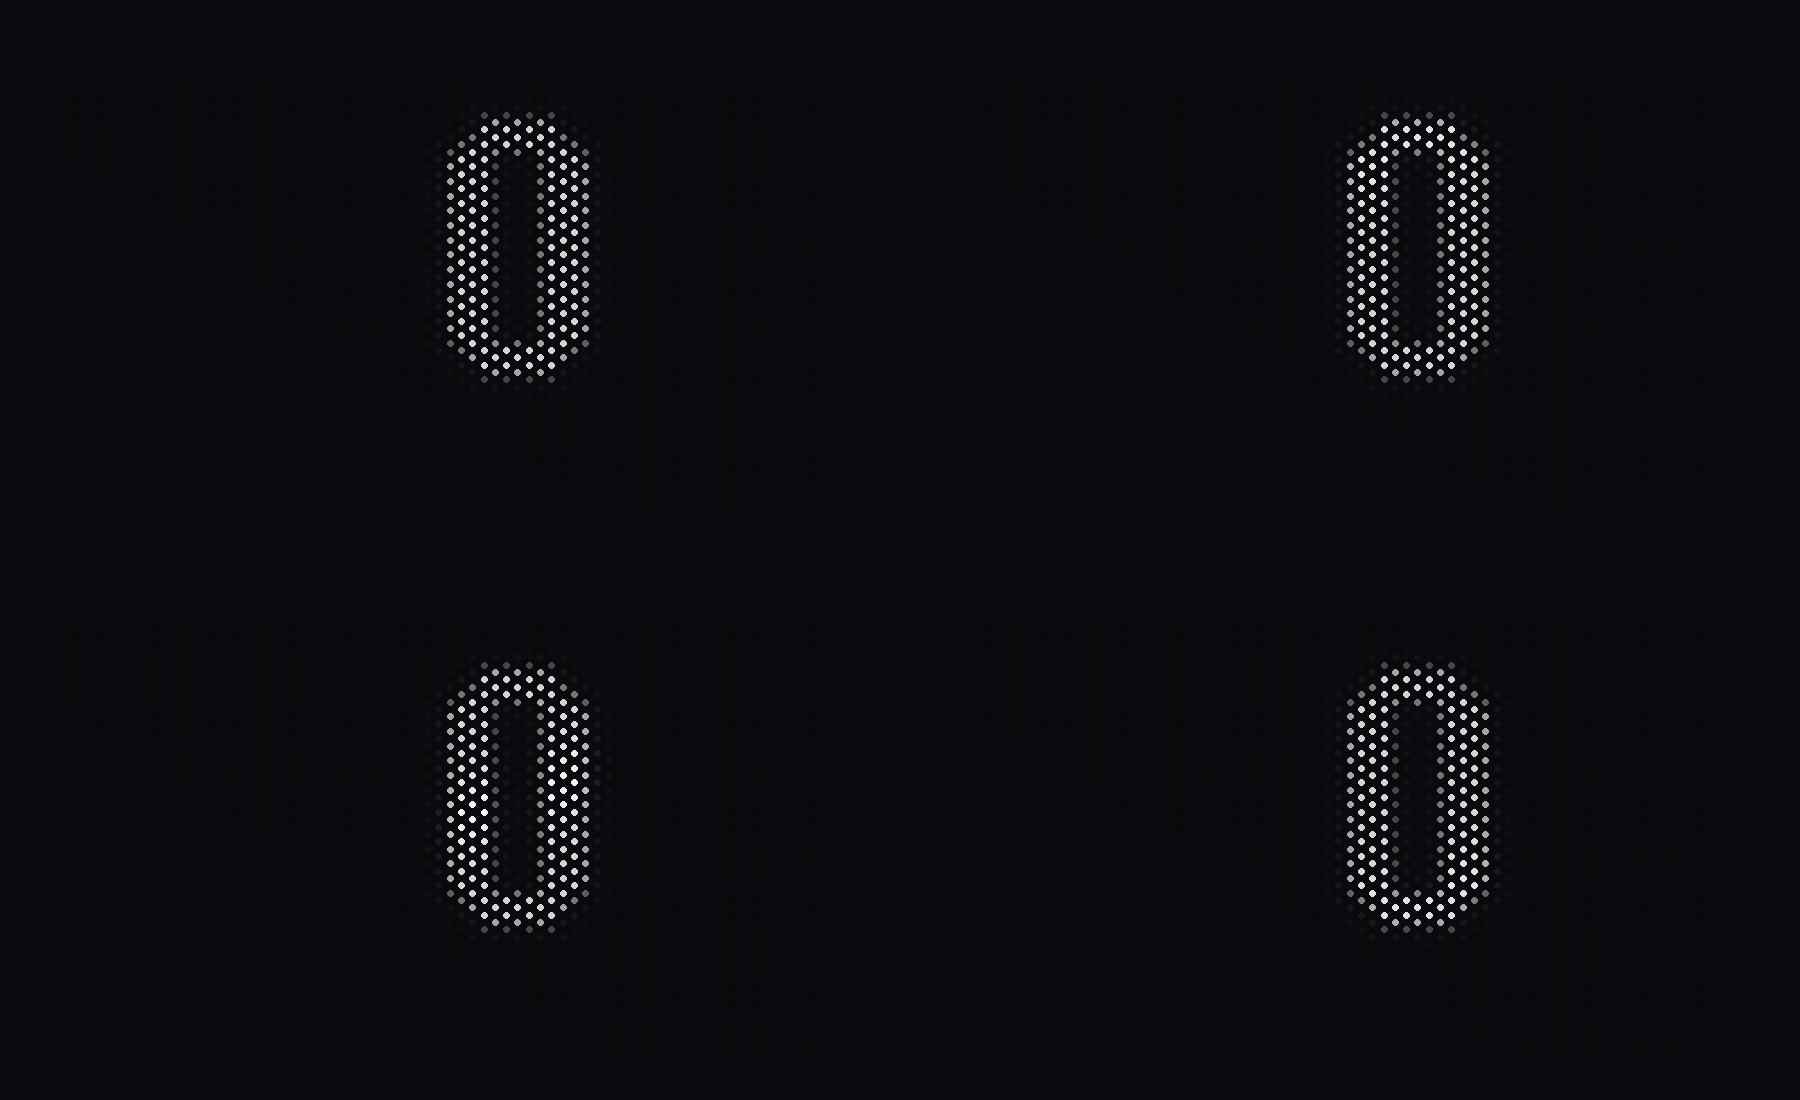
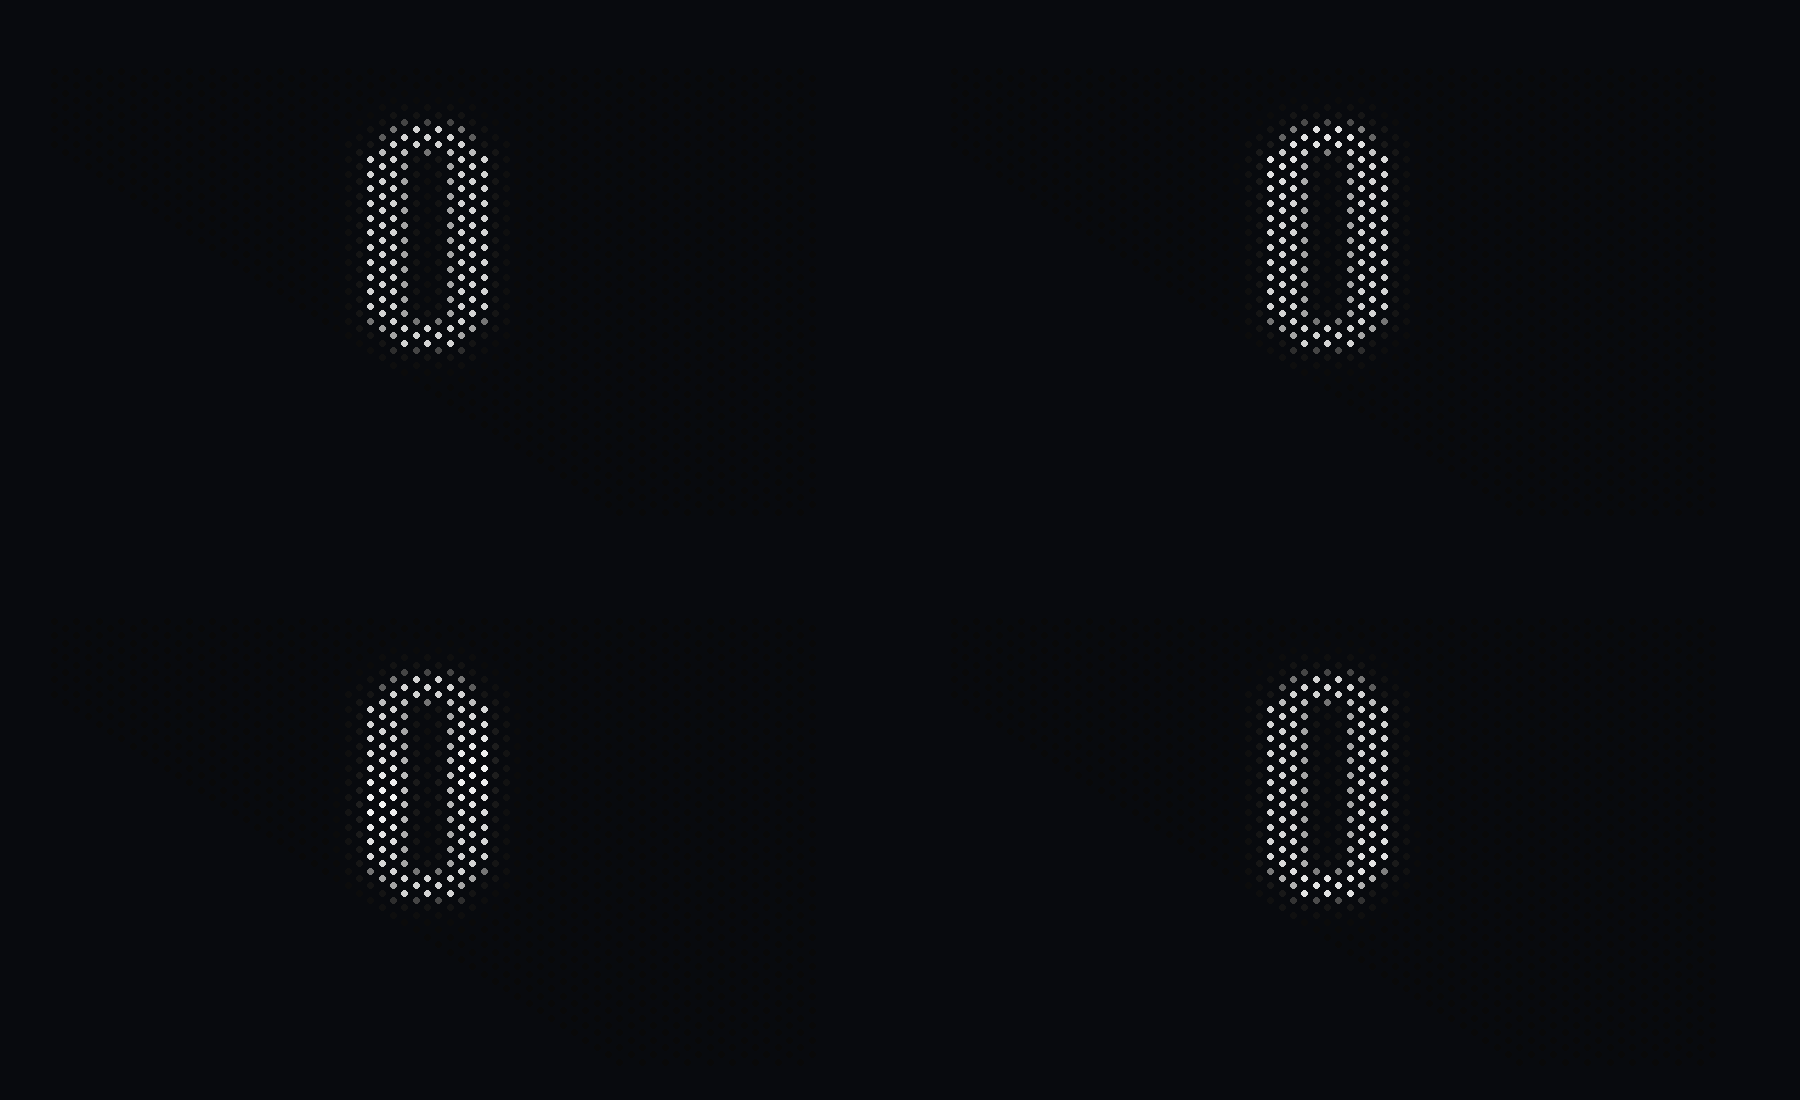
Move Omarchy highlight toward the lid centre

diff --git a/artwork/omarchy-highlight/generate.py b/artwork/omarchy-highlight/generate.py
@@ -13,9 +13,10 @@ LEDS = [(x+i,38-y-i) for x,y,n in RUNS for i in range(n)]
 PHYSICAL = np.array([((x-y)/math.sqrt(2),(x+y)/math.sqrt(2)*.65) for x,y in LEDS])
 SAMPLES = PHYSICAL[:,None,:] + np.array([[-.14,-.14],[-.14,.14],[.14,-.14],[.14,.14]])
 # Exact stepped O silhouette from /usr/share/omarchy/logo.svg.
-# Wordmark coordinates are centred on the physical LED area centroid.
-CENTER = PHYSICAL.mean(axis=0)
-SCALE = 16 / 240
+# Approximate optical placement toward the lid centre, not the LED centroid.
+# Smaller height leaves room along the lower diagonal boundary.
+CENTER = np.array([0.0,25.5])
+SCALE = 14 / 240
 OUTER = np.array([(105,30),(120,30),(120,45),(135,45),(135,225),
  (120,225),(120,240),(105,240),(105,255),(30,255),(30,240),
  (15,240),(15,225),(0,225),(0,45),(15,45),(15,30),(30,30),

diff --git a/artwork/omarchy-highlight/README.md b/artwork/omarchy-highlight/README.md
@@ -1,6 +1,6 @@
 # Omarchy O / Quiet Highlight
 
-The actual stepped O from Omarchy's wordmark, centred on the physical GA402 LED area. A slowly angled band of light passes over it, inspired by the installed Omarchy screensaver's highlight effect. Geometry and placement stay fixed, and the full letter remains visible.
+The actual stepped O from Omarchy's wordmark, placed toward the horizontal centre of the full lid rather than the right-heavy LED-area centroid. The optical anchor is (0, 25.5) in physical LED coordinates, and its height is 14 units. This is an approximate lid alignment, based on the GA402 lid layout; the letter has 0.85 units of clearance from the panel boundary. A slowly angled band of light passes over it, inspired by the installed Omarchy screensaver's highlight effect. Geometry and placement stay fixed, and the full letter remains visible.
 
 A pass lasts 24 seconds, with four seconds of calm before and after it. The moving highlight smoothly gains and loses strength, avoiding any visible return stroke. Letter brightness is 210–244 out of 255; the narrow halo is 14–26. The 32-second exported loop's first and final frames are identical.
 
